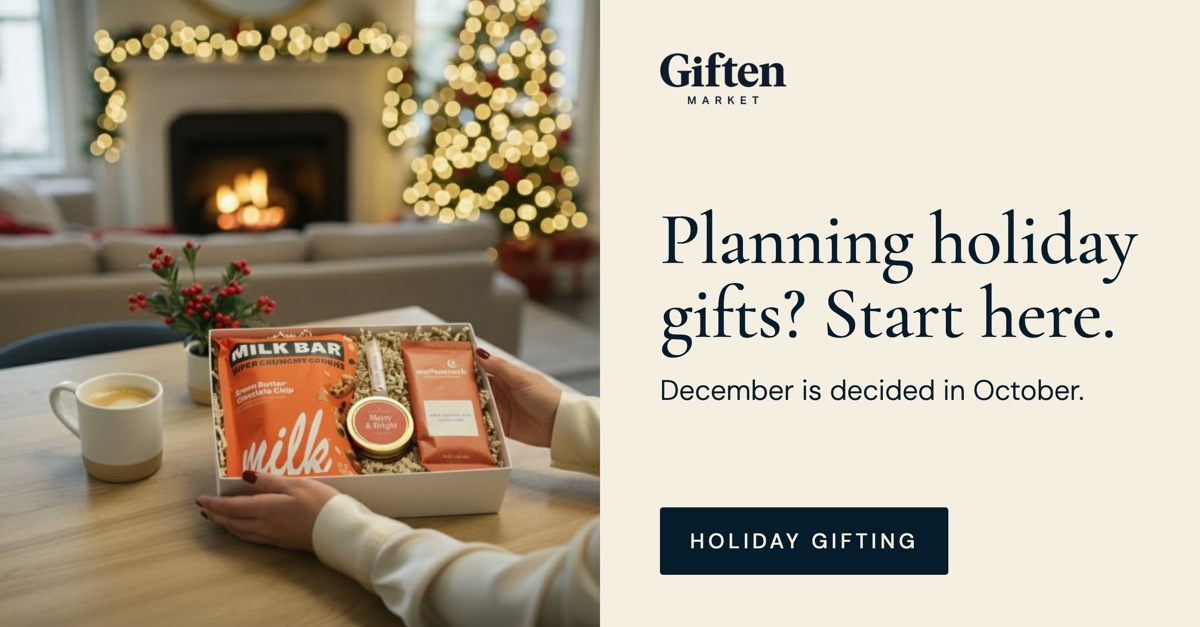
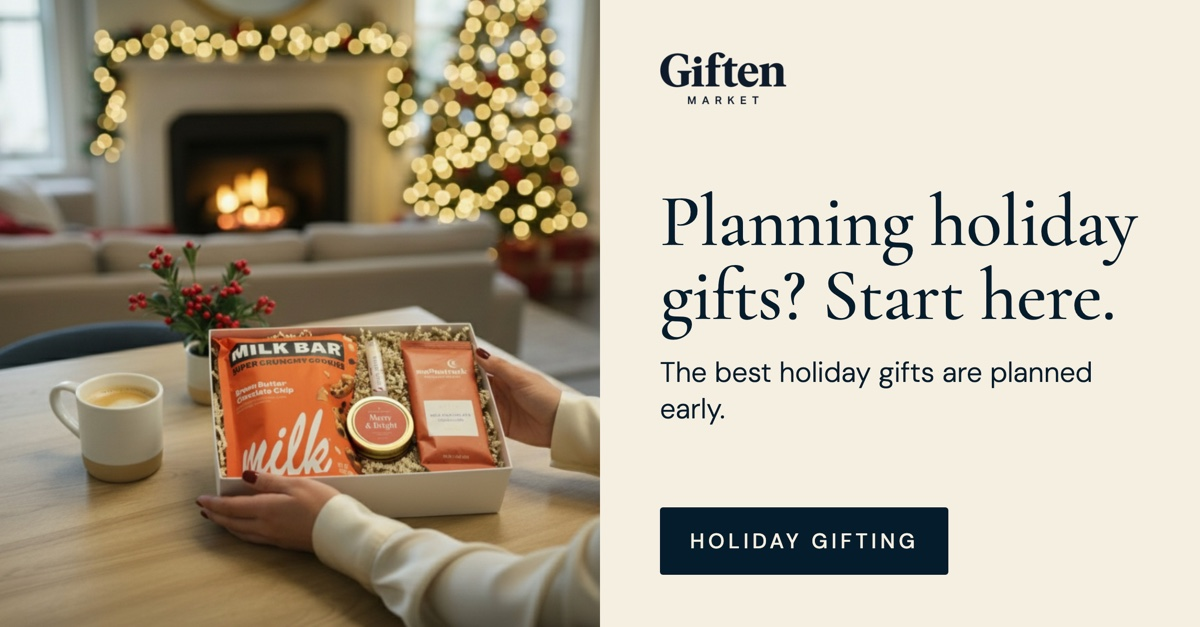
Holiday tile: evergreen support line and OG description

Changed region(s): [[0.555, 0.303, 0.9558, 0.6667]]

diff --git a/holiday/index.html b/holiday/index.html
@@ -4,13 +4,13 @@
 <meta charset="utf-8">
 <meta name="viewport" content="width=device-width, initial-scale=1">
 <title>Holiday Gifting 2026 by Giften Market</title>
-<meta name="description" content="Holiday programs lock October 31. Start yours now.">
+<meta name="description" content="Employee and client holiday gifts, planned early and shipped from a warehouse we own.">
 <meta name="robots" content="noindex, follow">
 <link rel="canonical" href="https://marthakrueger.com/holiday/">
 <meta property="og:type" content="website">
 <meta property="og:site_name" content="Martha Krueger">
 <meta property="og:title" content="Holiday Gifting 2026 by Giften Market">
-<meta property="og:description" content="Holiday programs lock October 31. Start yours now.">
+<meta property="og:description" content="Employee and client holiday gifts, planned early and shipped from a warehouse we own.">
 <meta property="og:url" content="https://marthakrueger.com/holiday/">
 <meta property="og:image" content="https://marthakrueger.com/img/og/giften-market-linkedin-featured-tile-2-holiday-2026.jpg">
 <meta property="og:image:secure_url" content="https://marthakrueger.com/img/og/giften-market-linkedin-featured-tile-2-holiday-2026.jpg">
@@ -20,7 +20,7 @@
 <meta property="og:image:alt" content="Holiday Gifting 2026 by Giften Market">
 <meta name="twitter:card" content="summary_large_image">
 <meta name="twitter:title" content="Holiday Gifting 2026 by Giften Market">
-<meta name="twitter:description" content="Holiday programs lock October 31. Start yours now.">
+<meta name="twitter:description" content="Employee and client holiday gifts, planned early and shipped from a warehouse we own.">
 <meta name="twitter:image" content="https://marthakrueger.com/img/og/giften-market-linkedin-featured-tile-2-holiday-2026.jpg">
 <meta http-equiv="refresh" content="0; url=https://giftenmarket.com/collections/holiday?utm_source=linkedin&amp;utm_medium=social&amp;utm_campaign=featured-tiles&amp;utm_content=holiday-2026">
 <script>window.location.replace("https://giftenmarket.com/collections/holiday?utm_source=linkedin&amp;utm_medium=social&amp;utm_campaign=featured-tiles&amp;utm_content=holiday-2026");</script>

diff --git a/tiles/tile2.html b/tiles/tile2.html
@@ -15,5 +15,5 @@ p{font-weight:300;font-size:28px;line-height:1.3;margin:0}
 </style></head><body><div class="wrap">
 <div class="photo"><img src="src/t2.png"></div>
 <div class="panel"><div class="logo"><img src="src/logo.png"></div>
-<div><h1>Planning holiday gifts? Start here.</h1><p>December is decided in October.</p></div>
+<div><h1>Planning holiday gifts? Start here.</h1><p>The best holiday gifts are planned early.</p></div>
 <div class="btn">Holiday gifting</div></div></div></body></html>

diff --git a/tiles/build.py b/tiles/build.py
@@ -3,7 +3,7 @@ S = pathlib.Path(__file__).resolve().parent
 CHROME = "/Applications/Google Chrome.app/Contents/MacOS/Google Chrome"
 tiles = [
  dict(n=1, slug="corporate-gifting", img="t1.png", pos="40% 50%", h="Need to send a lot of gifts?", s="Corporate gifting, without the scramble.", cta="Corporate gifting", logo=True),
- dict(n=2, slug="holiday-2026", img="t2.png", pos="50% 62%", h="Planning holiday gifts? Start here.", s="December is decided in October.", cta="Holiday gifting", logo=True),
+ dict(n=2, slug="holiday-2026", img="t2.png", pos="50% 62%", h="Planning holiday gifts? Start here.", s="The best holiday gifts are planned early.", cta="Holiday gifting", logo=True),
  dict(n=3, slug="build-your-own", img="t3.jpg", pos="50% 30%", h="Build a gift they’ll actually want.", s="Choose the products. We’ll make it beautiful.", cta="Build your own", logo=True),
  dict(n=4, slug="meet-martha", img="t4.png", pos="50% 40%", h="75,000+ gifts later, I have opinions.", s="Founder notes on gifting that actually gets used.", cta="Meet Martha", logo=False),
 ]
